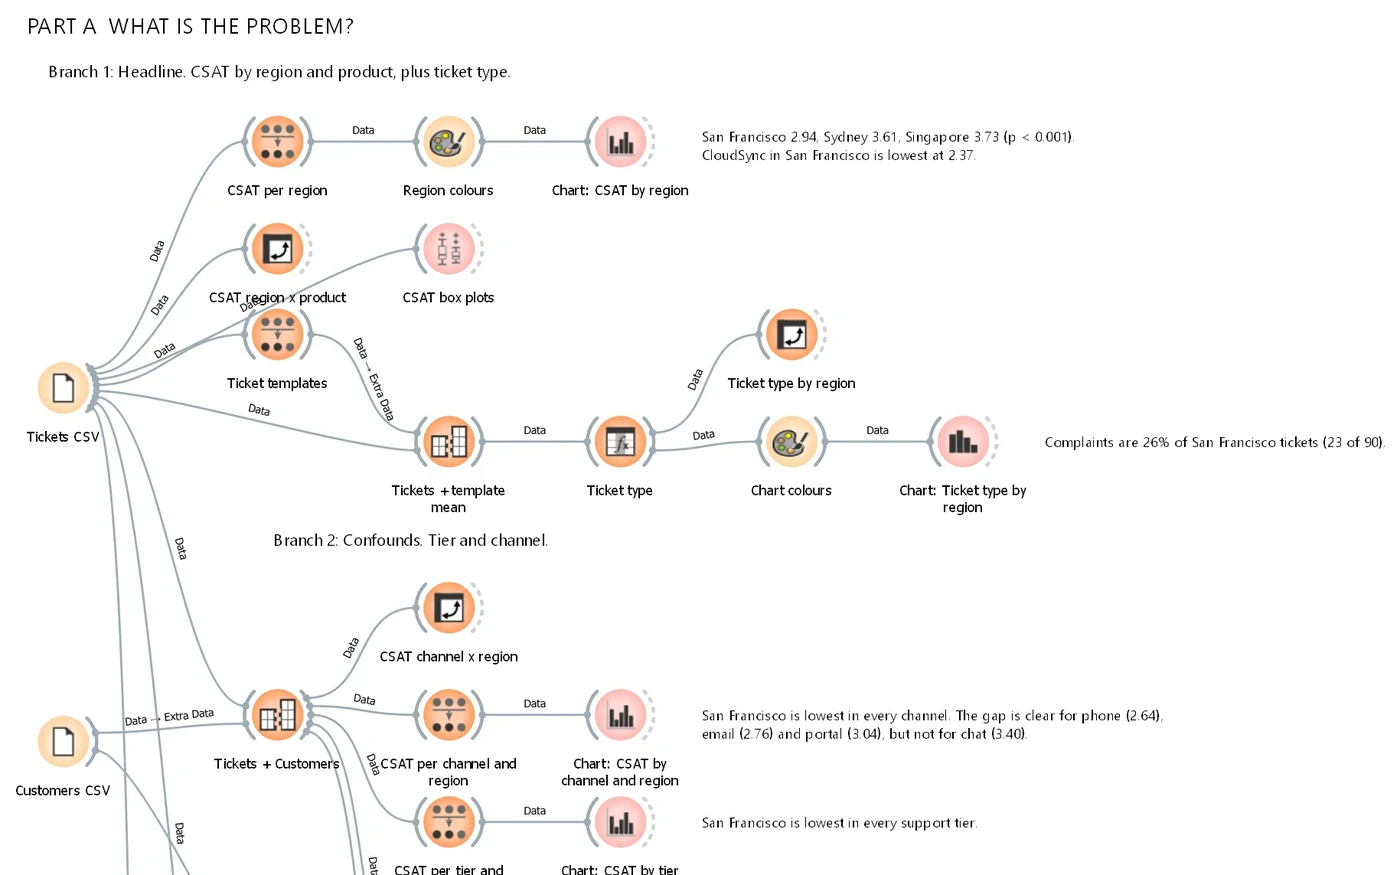
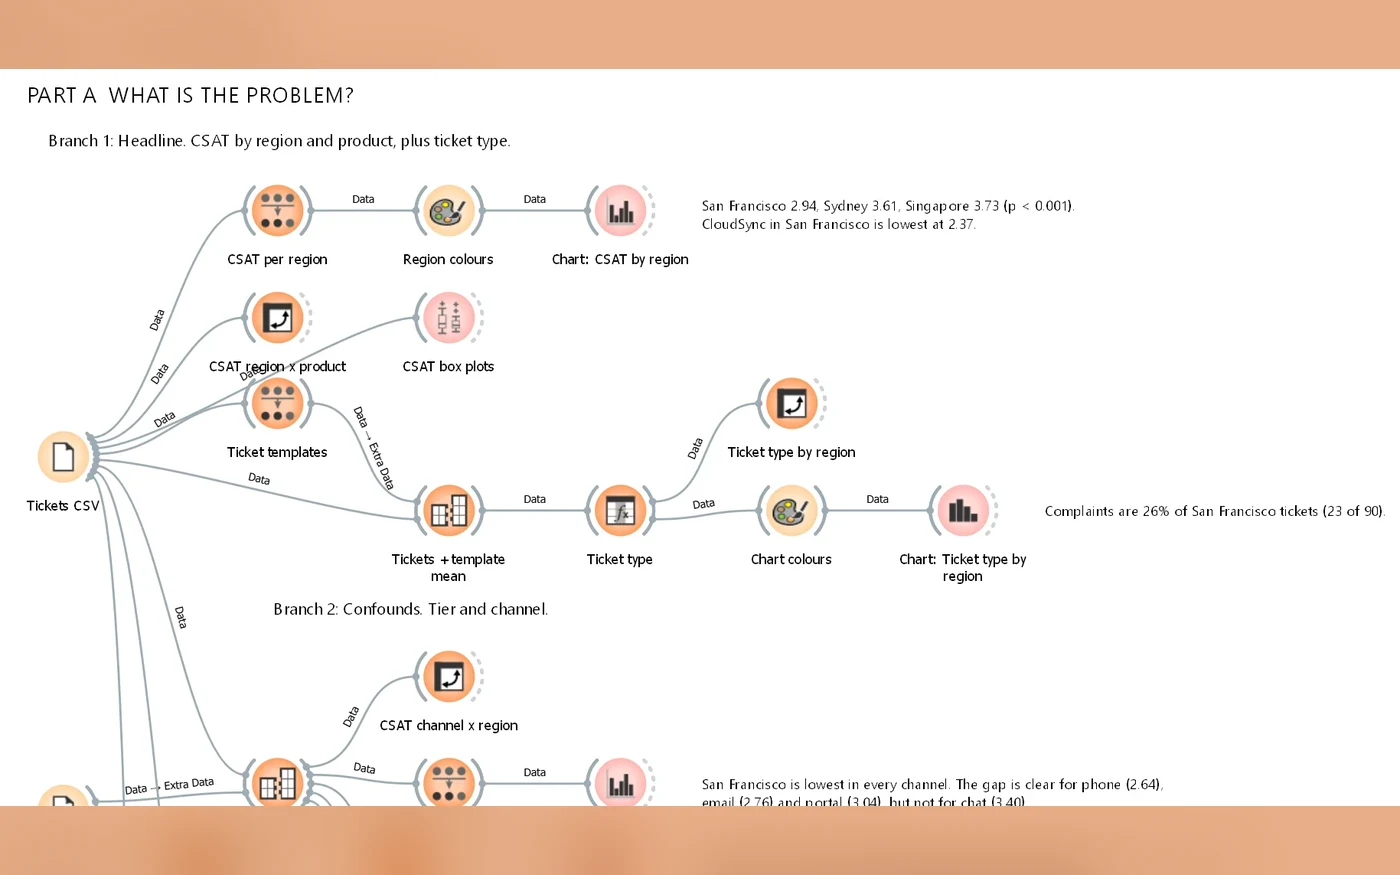
Coloured card fills for WeatherWise, customer feedback and infrastructure; PNG link previews from the card images

diff --git a/index.html b/index.html
@@ -68,7 +68,7 @@
             <a class="hw-tile" href="freshmart.html"><img src="images/freshmart-card.webp" alt="" width="1447" height="904" decoding="async" /><span class="hw-label">FreshMart dashboard</span></a>
             <a class="hw-tile" href="football-database.html"><img src="images/football-erd.webp" alt="" width="1114" height="696" decoding="async" /><span class="hw-label">Football database</span></a>
             <a class="hw-tile" href="weatherwise.html"><img src="images/weatherwise-card.webp" alt="" width="701" height="438" decoding="async" /><span class="hw-label">WeatherWise</span></a>
-            <a class="hw-tile" href="infrastructure.html"><img src="images/dort-network-diagram.jpg" alt="" width="1807" height="1280" decoding="async" /><span class="hw-label">IT infrastructure plan</span></a>
+            <a class="hw-tile" href="infrastructure.html"><img src="images/infrastructure-card.webp" alt="" width="1600" height="1000" decoding="async" /><span class="hw-label">IT infrastructure plan</span></a>
             <a class="hw-tile" href="streaming-concept.html"><img src="images/venue-card.webp" alt="" width="1280" height="800" decoding="async" /><span class="hw-label">Hockey WA venue model</span></a>
           </nav>
         </section>
@@ -132,7 +132,7 @@
               </div>
             </article>
             <article class="project-card">
-              <a class="card-media" href="infrastructure.html" tabindex="-1" aria-hidden="true"><img width="1807" height="1280" src="images/dort-network-diagram.jpg" alt="" loading="lazy" /></a>
+              <a class="card-media" href="infrastructure.html" tabindex="-1" aria-hidden="true"><img width="1600" height="1000" src="images/infrastructure-card.webp" alt="" loading="lazy" /></a>
               <div class="card-text">
                 <h3><a href="infrastructure.html">IT infrastructure and capital plan</a></h3>
                 <p class="meta">Excel, Visio &middot; Pair project</p>

diff --git a/weatherwise.html b/weatherwise.html
@@ -29,11 +29,13 @@
     <meta property="og:title" content="WeatherWise | Waranyu Bancherdvanich" />
     <meta property="og:description" content="WeatherWise: a Python weather advisor combining the OpenWeatherMap API, Matplotlib charts, and natural-language questions, by Waranyu Bancherdvanich." />
     <meta property="og:url" content="https://waranyu-cv.vercel.app/weatherwise.html" />
-    <meta property="og:image" content="https://waranyu-cv.vercel.app/images/weatherwise-demo.png" />
+    <meta property="og:image" content="https://waranyu-cv.vercel.app/images/og/weatherwise.png" />
+    <meta property="og:image:width" content="1200" />
+    <meta property="og:image:height" content="630" />
     <meta name="twitter:card" content="summary_large_image" />
     <meta name="twitter:title" content="WeatherWise | Waranyu Bancherdvanich" />
     <meta name="twitter:description" content="WeatherWise: a Python weather advisor combining the OpenWeatherMap API, Matplotlib charts, and natural-language questions, by Waranyu Bancherdvanich." />
-    <meta name="twitter:image" content="https://waranyu-cv.vercel.app/images/weatherwise-demo.png" />
+    <meta name="twitter:image" content="https://waranyu-cv.vercel.app/images/og/weatherwise.png" />
   </head>
   <body>
     <a class="skip-link" href="#main">Skip to content</a>
@@ -243,7 +245,7 @@
               <span class="np-title">IT infrastructure and capital plan</span>
               <span class="np-blurb">Connecting a Perth head office to five remote WA training centres, designed so calls and learning keep working through outages.</span>
             </span>
-            <img class="np-shot" src="images/dort-network-diagram.jpg" width="1807" height="1280" alt="" loading="lazy" decoding="async" />
+            <img class="np-shot" src="images/infrastructure-card.webp" width="1600" height="1000" alt="" loading="lazy" decoding="async" />
           </a>
         </article>
       </main>

diff --git a/customer-feedback.html b/customer-feedback.html
@@ -26,11 +26,13 @@
     <meta property="og:title" content="AI decision support and automation | Waranyu Bancherdvanich" />
     <meta property="og:description" content="Using AI and data to support a business decision, then automating a weekly action list: 360 support tickets, sentiment tools, a churn model and a local LLM test in Orange, by Waranyu Bancherdvanich." />
     <meta property="og:url" content="https://waranyu-cv.vercel.app/customer-feedback.html" />
-    <meta property="og:image" content="https://waranyu-cv.vercel.app/images/orange-workflow.webp" />
+    <meta property="og:image" content="https://waranyu-cv.vercel.app/images/og/customer-feedback.png" />
+    <meta property="og:image:width" content="1200" />
+    <meta property="og:image:height" content="630" />
     <meta name="twitter:card" content="summary_large_image" />
     <meta name="twitter:title" content="AI decision support and automation | Waranyu Bancherdvanich" />
     <meta name="twitter:description" content="Using AI and data to support a business decision, then automating a weekly action list: 360 support tickets, sentiment tools, a churn model and a local LLM test in Orange, by Waranyu Bancherdvanich." />
-    <meta name="twitter:image" content="https://waranyu-cv.vercel.app/images/orange-workflow.webp" />
+    <meta name="twitter:image" content="https://waranyu-cv.vercel.app/images/og/customer-feedback.png" />
   </head>
   <body>
     <a class="skip-link" href="#main">Skip to content</a>

diff --git a/infrastructure.html b/infrastructure.html
@@ -26,11 +26,13 @@
     <meta property="og:title" content="IT infrastructure plan | Waranyu Bancherdvanich" />
     <meta property="og:description" content="IT infrastructure plan for a government department: choosing connections for five remote WA training centres, designing for outages, and a network diagram, by Waranyu Bancherdvanich." />
     <meta property="og:url" content="https://waranyu-cv.vercel.app/infrastructure.html" />
-    <meta property="og:image" content="https://waranyu-cv.vercel.app/images/dort-network-diagram.jpg" />
+    <meta property="og:image" content="https://waranyu-cv.vercel.app/images/og/infrastructure.png" />
+    <meta property="og:image:width" content="1200" />
+    <meta property="og:image:height" content="630" />
     <meta name="twitter:card" content="summary_large_image" />
     <meta name="twitter:title" content="IT infrastructure plan | Waranyu Bancherdvanich" />
     <meta name="twitter:description" content="IT infrastructure plan for a government department: choosing connections for five remote WA training centres, designing for outages, and a network diagram, by Waranyu Bancherdvanich." />
-    <meta name="twitter:image" content="https://waranyu-cv.vercel.app/images/dort-network-diagram.jpg" />
+    <meta name="twitter:image" content="https://waranyu-cv.vercel.app/images/og/infrastructure.png" />
   </head>
   <body>
     <a class="skip-link" href="#main">Skip to content</a>

diff --git a/freshmart.html b/freshmart.html
@@ -28,11 +28,13 @@
     <meta property="og:title" content="FreshMart data warehouse | Waranyu Bancherdvanich" />
     <meta property="og:description" content="FreshMart data warehouse and sales dashboard: a Kimball star schema, Power Query ETL, and an executive Power BI dashboard, by Waranyu Bancherdvanich." />
     <meta property="og:url" content="https://waranyu-cv.vercel.app/freshmart.html" />
-    <meta property="og:image" content="https://waranyu-cv.vercel.app/images/freshmart-dashboard.png" />
+    <meta property="og:image" content="https://waranyu-cv.vercel.app/images/og/freshmart.png" />
+    <meta property="og:image:width" content="1200" />
+    <meta property="og:image:height" content="630" />
     <meta name="twitter:card" content="summary_large_image" />
     <meta name="twitter:title" content="FreshMart data warehouse | Waranyu Bancherdvanich" />
     <meta name="twitter:description" content="FreshMart data warehouse and sales dashboard: a Kimball star schema, Power Query ETL, and an executive Power BI dashboard, by Waranyu Bancherdvanich." />
-    <meta name="twitter:image" content="https://waranyu-cv.vercel.app/images/freshmart-dashboard.png" />
+    <meta name="twitter:image" content="https://waranyu-cv.vercel.app/images/og/freshmart.png" />
   </head>
   <body>
     <a class="skip-link" href="#main">Skip to content</a>

diff --git a/football-database.html b/football-database.html
@@ -30,11 +30,13 @@
     <meta property="og:title" content="Football club database | Waranyu Bancherdvanich" />
     <meta property="og:description" content="A normalised 16-table Oracle SQL database for a soccer competition: ERD, business rules, DDL, and analytical queries, by Waranyu Bancherdvanich." />
     <meta property="og:url" content="https://waranyu-cv.vercel.app/football-database.html" />
-    <meta property="og:image" content="https://waranyu-cv.vercel.app/images/football-erd.png" />
+    <meta property="og:image" content="https://waranyu-cv.vercel.app/images/og/football-database.png" />
+    <meta property="og:image:width" content="1200" />
+    <meta property="og:image:height" content="630" />
     <meta name="twitter:card" content="summary_large_image" />
     <meta name="twitter:title" content="Football club database | Waranyu Bancherdvanich" />
     <meta name="twitter:description" content="A normalised 16-table Oracle SQL database for a soccer competition: ERD, business rules, DDL, and analytical queries, by Waranyu Bancherdvanich." />
-    <meta name="twitter:image" content="https://waranyu-cv.vercel.app/images/football-erd.png" />
+    <meta name="twitter:image" content="https://waranyu-cv.vercel.app/images/og/football-database.png" />
   </head>
   <body>
     <a class="skip-link" href="#main">Skip to content</a>

diff --git a/renewable.html b/renewable.html
@@ -28,11 +28,13 @@
     <meta property="og:title" content="Australia's renewable transition | Waranyu Bancherdvanich" />
     <meta property="og:description" content="Australia's renewable electricity transition: a Power BI dashboard and R forecast to 2035, by Waranyu Bancherdvanich." />
     <meta property="og:url" content="https://waranyu-cv.vercel.app/renewable.html" />
-    <meta property="og:image" content="https://waranyu-cv.vercel.app/images/renewable-dashboard.png" />
+    <meta property="og:image" content="https://waranyu-cv.vercel.app/images/og/renewable.png" />
+    <meta property="og:image:width" content="1200" />
+    <meta property="og:image:height" content="630" />
     <meta name="twitter:card" content="summary_large_image" />
     <meta name="twitter:title" content="Australia's renewable transition | Waranyu Bancherdvanich" />
     <meta name="twitter:description" content="Australia's renewable electricity transition: a Power BI dashboard and R forecast to 2035, by Waranyu Bancherdvanich." />
-    <meta name="twitter:image" content="https://waranyu-cv.vercel.app/images/renewable-dashboard.png" />
+    <meta name="twitter:image" content="https://waranyu-cv.vercel.app/images/og/renewable.png" />
   </head>
   <body>
     <a class="skip-link" href="#main">Skip to content</a>

diff --git a/locollm.html b/locollm.html
@@ -24,11 +24,13 @@
     <meta property="og:title" content="LocoLLM privacy-law adapter | Waranyu Bancherdvanich" />
     <meta property="og:description" content="Training a small local AI model into an Australian privacy-law specialist, and proving it on a sealed 170-question benchmark." />
     <meta property="og:url" content="https://waranyu-cv.vercel.app/locollm.html" />
-    <meta property="og:image" content="https://waranyu-cv.vercel.app/images/locollm-results.png" />
+    <meta property="og:image" content="https://waranyu-cv.vercel.app/images/og/locollm.png" />
+    <meta property="og:image:width" content="1200" />
+    <meta property="og:image:height" content="630" />
     <meta name="twitter:card" content="summary_large_image" />
     <meta name="twitter:title" content="LocoLLM privacy-law adapter | Waranyu Bancherdvanich" />
     <meta name="twitter:description" content="Training a small local AI model into an Australian privacy-law specialist, and proving it on a sealed 170-question benchmark." />
-    <meta name="twitter:image" content="https://waranyu-cv.vercel.app/images/locollm-results.png" />
+    <meta name="twitter:image" content="https://waranyu-cv.vercel.app/images/og/locollm.png" />
   </head>
   <body>
     <a class="skip-link" href="#main">Skip to content</a>

diff --git a/streaming-concept.html b/streaming-concept.html
@@ -24,7 +24,9 @@
     <meta property="og:title" content="3D venue model | Waranyu Bancherdvanich" />
     <meta property="og:description" content="A 3D venue model in Blender showing an 18-camera streaming plan, from a student consulting project, by Waranyu Bancherdvanich." />
     <meta property="og:url" content="https://waranyu-cv.vercel.app/streaming-concept.html" />
-    <meta property="og:image" content="https://waranyu-cv.vercel.app/video/venue-3d-model-poster.jpg" />
+    <meta property="og:image" content="https://waranyu-cv.vercel.app/images/og/streaming-concept.png" />
+    <meta property="og:image:width" content="1200" />
+    <meta property="og:image:height" content="630" />
     <meta name="twitter:card" content="summary_large_image" />
   </head>
   <body>
